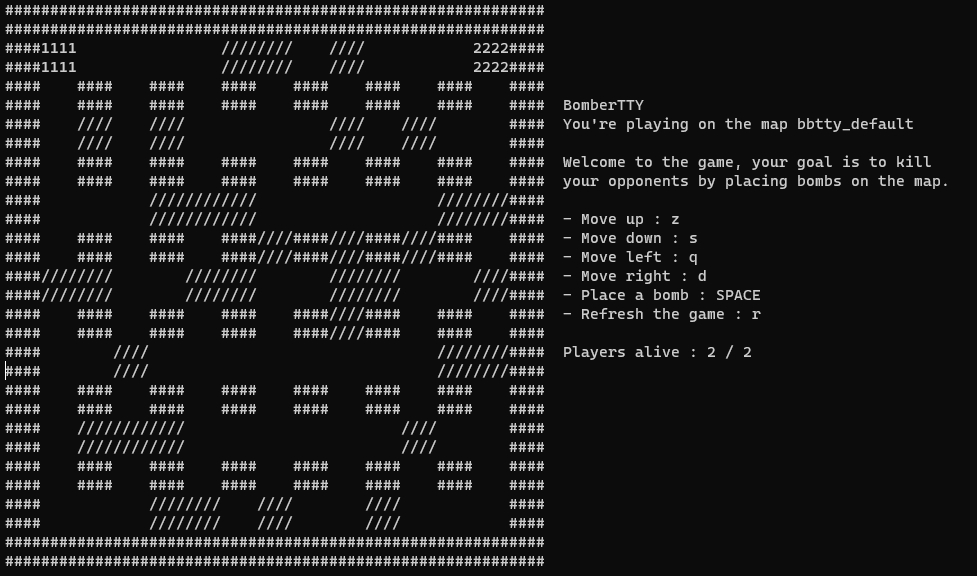
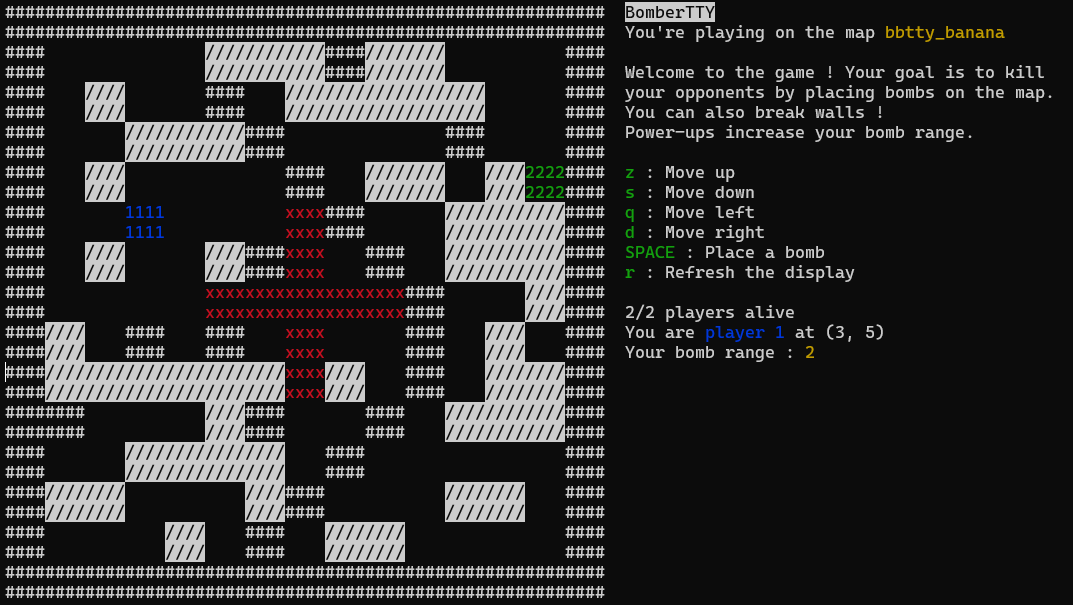
Add colors

Changed region(s): [[0.0, 0.0, 0.9826, 1.0]]

diff --git a/client/display.c b/client/display.c
@@ -10,11 +10,39 @@
 /*                                 Functions                                 */
 /* ------------------------------------------------------------------------- */
 
+void init_display()
+{
+    initscr(); // Initialize the ncurses window
+    noecho(); // Disable echoing of typed characters
+    start_color(); // Enable colors
+
+    // Initialize the color pairs (foreground + background)
+    init_pair(MAP_TILE_COLOR_EMPTY, COLOR_BLACK, COLOR_BLACK);
+    init_pair(MAP_TILE_COLOR_WALL, COLOR_WHITE, COLOR_BLACK);
+    init_pair(MAP_TILE_COLOR_BREAKABLE_WALL, COLOR_BLACK, COLOR_WHITE);
+    init_pair(MAP_TILE_COLOR_BOMB, COLOR_YELLOW, COLOR_BLACK);
+    init_pair(MAP_TILE_COLOR_EXPLOSION, COLOR_RED, COLOR_BLACK);
+    init_pair(MAP_TILE_COLOR_PLAYER_1, COLOR_BLUE, COLOR_BLACK);
+    init_pair(MAP_TILE_COLOR_PLAYER_2, COLOR_GREEN, COLOR_BLACK);
+    init_pair(MAP_TILE_COLOR_PLAYER_3, COLOR_MAGENTA, COLOR_BLACK);
+    init_pair(MAP_TILE_COLOR_PLAYER_4, COLOR_CYAN, COLOR_BLACK);
+    init_pair(TEXT_COLOR_TITLE, COLOR_BLACK, COLOR_WHITE);
+    init_pair(TEXT_COLOR_MAP_NAME, COLOR_YELLOW, COLOR_BLACK);
+    init_pair(TEXT_COLOR_CONTROL_KEY, COLOR_GREEN, COLOR_BLACK);
+}
+
+
+
 void display_map(struct game* game)
 {
     for (int line = 0; line < game->map_height; line++)
         for (int column = 0; column < game->map_width; column++)
-            print_tile(column, line, game->map[line][column]);
+            switch (game->map[line][column]) {
+            case MAP_TILE_EMPTY: print_tile(column, line, game->map[line][column], MAP_TILE_COLOR_EMPTY); break;
+            case MAP_TILE_WALL: print_tile(column, line, game->map[line][column], MAP_TILE_COLOR_WALL); break;
+            case MAP_TILE_BREAKABLE_WALL: print_tile(column, line, game->map[line][column], MAP_TILE_COLOR_BREAKABLE_WALL); break;
+            }
+
 }
 
 
@@ -33,40 +61,40 @@ void display_bombs(struct game* game)
             int next_x, next_y;
             int up = 1, down = 1, left = 1, right = 1;
 
-            print_tile(x, y, MAP_TILE_EXPLOSION);
+            print_tile(x, y, MAP_TILE_EXPLOSION, MAP_TILE_COLOR_EXPLOSION);
 
             for (int j = 1; j <= game->players[i].bomb.range; j++) {
                 // Up
                 next_x = x; next_y = y - j;
                 if (up == j && next_y >= 0 && game->map[next_y][next_x] == MAP_TILE_EMPTY) {
-                    print_tile(next_x, next_y, MAP_TILE_EXPLOSION);
+                    print_tile(next_x, next_y, MAP_TILE_EXPLOSION, MAP_TILE_COLOR_EXPLOSION);
                     up++;
                 }
 
                 // Down
                 next_x = x; next_y = y + j;
                 if (down == j && next_y < game->map_height && game->map[next_y][next_x] == MAP_TILE_EMPTY) {
-                    print_tile(next_x, next_y, MAP_TILE_EXPLOSION);
+                    print_tile(next_x, next_y, MAP_TILE_EXPLOSION, MAP_TILE_COLOR_EXPLOSION);
                     down++;
                 }
 
                 // Left
                 next_x = x - j; next_y = y;
                 if (left == j && next_x >= 0 && game->map[next_y][next_x] == MAP_TILE_EMPTY) {
-                    print_tile(next_x, next_y, MAP_TILE_EXPLOSION);
+                    print_tile(next_x, next_y, MAP_TILE_EXPLOSION, MAP_TILE_COLOR_EXPLOSION);
                     left++;
                 }
 
                 // Right
                 next_x = x + j; next_y = y;
                 if (right == j && next_x < game->map_width && game->map[next_y][next_x] == MAP_TILE_EMPTY) {
-                    print_tile(next_x, next_y, MAP_TILE_EXPLOSION);
+                    print_tile(next_x, next_y, MAP_TILE_EXPLOSION, MAP_TILE_COLOR_EXPLOSION);
                     right++;
                 }
             }
         }
         else // Display the bomb as planted
-            print_tile(x, y, MAP_TILE_BOMB);
+            print_tile(x, y, MAP_TILE_BOMB, MAP_TILE_COLOR_BOMB);
     }
 }
 
@@ -80,19 +108,22 @@ void display_players(struct game* game)
 
         int x = game->players[i].coords.x;
         int y = game->players[i].coords.y;
-        print_tile(x, y, (char)(i + 1 + 48)); // Print the player number
+
+        print_tile(x, y, MAP_TILE_PLAYER_1 + i, MAP_TILE_COLOR_PLAYER_1 + i);
     }
 }
 
 
 
-void print_tile(int x, int y, char c)
+void print_tile(int x, int y, char c, int color_pair)
 {
+    attron(COLOR_PAIR(color_pair)); // Set the color pair
     for (int n = 0; n < MAP_TILE_SIZE_Y; n++) {
         move(y * MAP_TILE_SIZE_Y + n, x * MAP_TILE_SIZE_X);
         for (int n = 0; n < MAP_TILE_SIZE_X; n++)
             addch(c);
     }
+    attroff(COLOR_PAIR(color_pair)); // Reset the color pair
 }
 
 
@@ -100,49 +131,87 @@ void print_tile(int x, int y, char c)
 void display_informations(struct game* game, int player_number)
 {
     move(0, game->map_width * MAP_TILE_SIZE_X + 2);
+    attron(COLOR_PAIR(TEXT_COLOR_TITLE));
     printw("BomberTTY");
+    attroff(COLOR_PAIR(TEXT_COLOR_TITLE));
 
     move(1, game->map_width * MAP_TILE_SIZE_X + 2);
-    printw("You're playing on the map %s\n", game->map_name);
+    printw("You're playing on the map ");
+    attron(COLOR_PAIR(TEXT_COLOR_MAP_NAME));
+    printw("%s\n", game->map_name);
+    attroff(COLOR_PAIR(TEXT_COLOR_MAP_NAME));
 
     move(3, game->map_width * MAP_TILE_SIZE_X + 2);
-    printw("Welcome to the game ! your goal is to kill\n");
+    printw("Welcome to the game ! Your goal is to kill\n");
 
     move(4, game->map_width * MAP_TILE_SIZE_X + 2);
     printw("your opponents by placing bombs on the map.\n");
 
-    move(6, game->map_width * MAP_TILE_SIZE_X + 2);
-    printw("- Move up : %c\n", CONTROL_KEY_UP);
+    move(5, game->map_width * MAP_TILE_SIZE_X + 2);
+    printw("You can also break walls !\n");
 
-    move(7, game->map_width * MAP_TILE_SIZE_X + 2);
-    printw("- Move down : %c\n", CONTROL_KEY_DOWN);
+    move(6, game->map_width * MAP_TILE_SIZE_X + 2);
+    printw("Power-ups increase your bomb range.\n");
 
     move(8, game->map_width * MAP_TILE_SIZE_X + 2);
-    printw("- Move left : %c\n", CONTROL_KEY_LEFT);
+    attron(COLOR_PAIR(TEXT_COLOR_CONTROL_KEY));
+    printw("%c", CONTROL_KEY_UP);
+    attroff(COLOR_PAIR(TEXT_COLOR_CONTROL_KEY));
+    printw(" : Move up\n", CONTROL_KEY_UP);
 
     move(9, game->map_width * MAP_TILE_SIZE_X + 2);
-    printw("- Move right : %c\n", CONTROL_KEY_RIGHT);
+    attron(COLOR_PAIR(TEXT_COLOR_CONTROL_KEY));
+    printw("%c", CONTROL_KEY_DOWN);
+    attroff(COLOR_PAIR(TEXT_COLOR_CONTROL_KEY));
+    printw(" : Move down\n", CONTROL_KEY_DOWN);
 
     move(10, game->map_width * MAP_TILE_SIZE_X + 2);
-    printw("- Place a bomb : SPACE\n");
+    attron(COLOR_PAIR(TEXT_COLOR_CONTROL_KEY));
+    printw("%c", CONTROL_KEY_LEFT);
+    attroff(COLOR_PAIR(TEXT_COLOR_CONTROL_KEY));
+    printw(" : Move left\n", CONTROL_KEY_LEFT);
 
     move(11, game->map_width * MAP_TILE_SIZE_X + 2);
-    printw("- Refresh the screen : %c\n", CONTROL_KEY_REFRESH);
+    attron(COLOR_PAIR(TEXT_COLOR_CONTROL_KEY));
+    printw("%c", CONTROL_KEY_RIGHT);
+    attroff(COLOR_PAIR(TEXT_COLOR_CONTROL_KEY));
+    printw(" : Move right\n", CONTROL_KEY_RIGHT);
+
+    move(12, game->map_width * MAP_TILE_SIZE_X + 2);
+    attron(COLOR_PAIR(TEXT_COLOR_CONTROL_KEY));
+    printw("SPACE");
+    attroff(COLOR_PAIR(TEXT_COLOR_CONTROL_KEY));
+    printw(" : Place a bomb\n");
 
     move(13, game->map_width * MAP_TILE_SIZE_X + 2);
-    printw("Players alive : %d / %d\n", game->player_count, game->number_of_players);
+    attron(COLOR_PAIR(TEXT_COLOR_CONTROL_KEY));
+    printw("%c", CONTROL_KEY_REFRESH);
+    attroff(COLOR_PAIR(TEXT_COLOR_CONTROL_KEY));
+    printw(" : Refresh the display\n", CONTROL_KEY_REFRESH);
+
+    move(15, game->map_width * MAP_TILE_SIZE_X + 2);
+    printw("%d/%d players alive\n", game->player_count, game->number_of_players);
 
     int x = game->players[player_number].coords.x;
     int y = game->players[player_number].coords.y;
 
-    move(14, game->map_width * MAP_TILE_SIZE_X + 2);
-    printw("You are : Player %d at (%d, %d)\n", player_number + 1, x, y);
+    move(16, game->map_width * MAP_TILE_SIZE_X + 2);
+    printw("You are ");
+    attron(COLOR_PAIR(MAP_TILE_COLOR_PLAYER_1 + player_number));
+    printw("player %d", player_number + 1);
+    attroff(COLOR_PAIR(MAP_TILE_COLOR_PLAYER_1 + player_number));
+    printw(" at (%d, %d)\n", x, y);
 
-    move(15, game->map_width * MAP_TILE_SIZE_X + 2);
-    printw("Your bomb range : %d\n", game->players[player_number].bomb_range);
+    move(17, game->map_width * MAP_TILE_SIZE_X + 2);
+    printw("Your bomb range : ");
+    attron(COLOR_PAIR(MAP_TILE_COLOR_BOMB));
+    printw("%d\n", game->players[player_number].bomb_range);
+    attroff(COLOR_PAIR(MAP_TILE_COLOR_BOMB));
 
     if (!game->players[player_number].alive) {
-        move(17, game->map_width * MAP_TILE_SIZE_X + 2);
+        move(19, game->map_width * MAP_TILE_SIZE_X + 2);
+        attron(COLOR_PAIR(MAP_TILE_COLOR_EXPLOSION));
         printw("You are dead !\n");
+        attroff(COLOR_PAIR(MAP_TILE_COLOR_EXPLOSION));
     }
 }

diff --git a/include/definitions.h b/include/definitions.h
@@ -45,13 +45,31 @@
 #define REFRESH_DELAY_MS         100
 
 // Map tiles
-#define MAP_TILE_SIZE_X           4
-#define MAP_TILE_SIZE_Y           2
-#define MAP_TILE_EMPTY          ' '
-#define MAP_TILE_WALL           '#'
-#define MAP_TILE_BREAKABLE_WALL '/'
-#define MAP_TILE_BOMB           'o'
-#define MAP_TILE_EXPLOSION      'x'
+#define MAP_TILE_SIZE_X                4
+#define MAP_TILE_SIZE_Y                2
+#define MAP_TILE_EMPTY               ' '
+#define MAP_TILE_WALL                '#'
+#define MAP_TILE_BREAKABLE_WALL      '/'
+#define MAP_TILE_BOMB                'o'
+#define MAP_TILE_EXPLOSION           'x'
+#define MAP_TILE_PLAYER_1            '1'
+#define MAP_TILE_PLAYER_2            '2'
+#define MAP_TILE_PLAYER_3            '3'
+#define MAP_TILE_PLAYER_4            '4'
+
+// Colors
+#define MAP_TILE_COLOR_EMPTY          0
+#define MAP_TILE_COLOR_WALL           1
+#define MAP_TILE_COLOR_BREAKABLE_WALL 2
+#define MAP_TILE_COLOR_BOMB           3
+#define MAP_TILE_COLOR_EXPLOSION      4
+#define MAP_TILE_COLOR_PLAYER_1       5
+#define MAP_TILE_COLOR_PLAYER_2       6
+#define MAP_TILE_COLOR_PLAYER_3       7
+#define MAP_TILE_COLOR_PLAYER_4       8
+#define TEXT_COLOR_TITLE              9
+#define TEXT_COLOR_MAP_NAME          10
+#define TEXT_COLOR_CONTROL_KEY       11
 
 // Player control keys
 #define CONTROL_KEY_UP         'z'

diff --git a/client/display.h b/client/display.h
@@ -16,6 +16,12 @@
 /* ------------------------------------------------------------------------- */
 
 /**
+ * Initializes the everything needed for the
+ * displaying of the game to work.
+*/
+void init_display();
+
+/**
  * Displays the map on the ncurses window.
  * @param game The game state
 */
@@ -38,8 +44,9 @@ void display_players(struct game* game);
  * @param x The x coordinate of the tile
  * @param y The y coordinate of the tile
  * @param c The character to print
+ * @param color_pair The color pair to use
 */
-void print_tile(int x, int y, char c);
+void print_tile(int x, int y, char c, int color_pair);
 
 /**
  * Prints informations about the game under the map.

diff --git a/client/message.h b/client/message.h
@@ -28,13 +28,6 @@
 bool send_message_connection(int main_msqid, pid_t pid);
 
 /**
- * Sends a "disconnection" message to the server.
- * @param client_msqid The client's message queue ID.
- * @return true if the message was sent successfully, false otherwise
-*/
-bool send_message_disconnection(int client_msqid);
-
-/**
  * Sends a "move" message to the server.
  * @param client_msqid The client's message queue ID.
  * @param direction The direction the player wants to move.

diff --git a/server/server.c b/server/server.c
@@ -59,8 +59,8 @@ int main(int argc, char* argv[])
 bool setup(char* number_of_players, char* path_to_map_file)
 {
     // Check arguments
-    if (atoi(number_of_players) > MAX_PLAYERS) {
-        printf("Too many players. (Should be under %d)\n", MAX_PLAYERS);
+    if (atoi(number_of_players) > MAX_PLAYERS || atoi(number_of_players) < 2) {
+        printf("Wrong player number. (Should be between 2 and %d)\n", MAX_PLAYERS);
         return false;
     }
 

diff --git a/client/client.c b/client/client.c
@@ -148,9 +148,7 @@ void* thread_message_game_state(void* arg)
                 i++;
             player_number = i;
 
-            // Initialize the ncurses window & disable echoing of typed characters
-            initscr();
-            noecho();
+            init_display();
 
             // Start threads that will handle the inputs & displaying the game state
             pthread_t th_display, th_inputs;

diff --git a/client/message.c b/client/message.c
@@ -23,16 +23,6 @@ bool send_message_connection(int main_msqid, pid_t pid)
 
 
 
-bool send_message_disconnection(int client_msqid)
-{
-    struct message_client_disconnection msg = {
-        .mtype = MESSAGE_CLIENT_DISCONNECTION_TYPE
-    };
-    return msgsnd(client_msqid, &msg, 0, 0) != -1;
-}
-
-
-
 bool send_message_move(int client_msqid, int direction)
 {
     struct message_client_move msg = {

diff --git a/include/message_structures.h b/include/message_structures.h
@@ -17,10 +17,6 @@ struct message_client_connection {
     } mcontent;
 };
 
-struct message_client_disconnection {
-    long mtype; // MESSAGE_CLIENT_DISCONNECTION_TYPE
-};
-
 struct message_client_move {
     long mtype; // MESSAGE_CLIENT_MOVE_TYPE
     struct {
